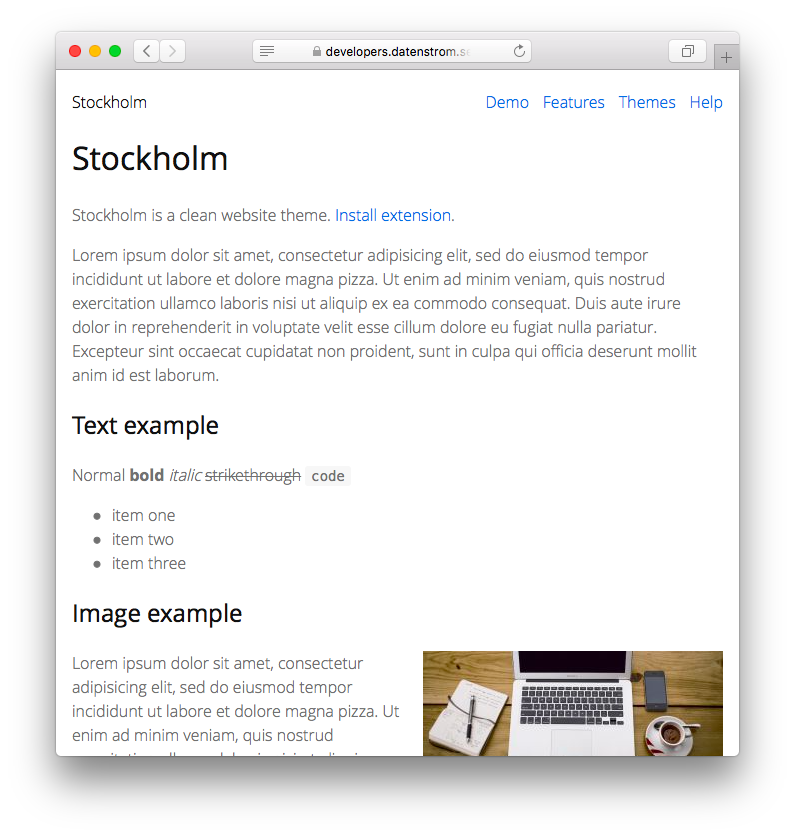
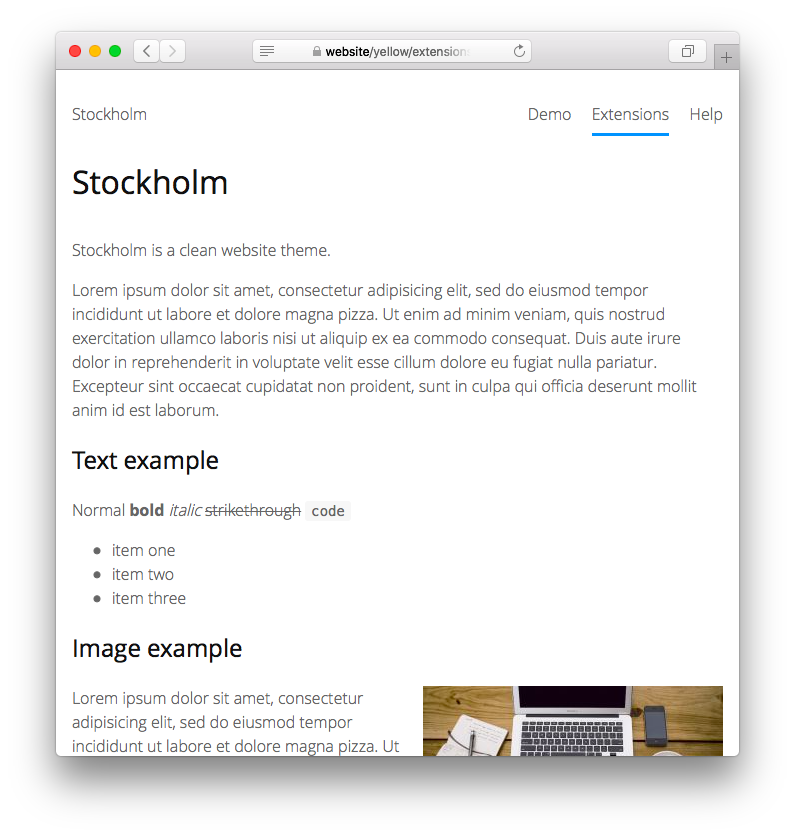
Updated themes

diff --git a/themes/stockholm/stockholm.css b/themes/stockholm/stockholm.css
@@ -29,7 +29,7 @@ html, body, div, form, pre, span, tr, th, td, img {
 body {
     margin: 1em;
     background-color: #fff;
-    color: #717171;
+    color: #666;
     font-family: "Open Sans", Helvetica, sans-serif;
     font-size: 1em;
     font-weight: 300;
@@ -42,7 +42,7 @@ h4,
 h5,
 h6 {
     color: #111;
-    font-weight: normal;
+    font-weight: 400;
 }
 h1 {
     font-size: 2em;
@@ -69,9 +69,8 @@ a:hover {
 
 /* Content */
 
-.content h1:first-child,
-.content > *:first-child {
-    margin-top: 0;
+.content h1 {
+    margin: 1em 0;
 }
 .content h1 a {
     color: #111;
@@ -165,23 +164,6 @@ a:hover {
     width: 100%;
     height: 100%;
 }
-.content .stretchable ul {
-    margin: 0 -0.5em;
-    padding: 0;
-    list-style: none;
-    text-align: center;
-}
-.content .stretchable li {
-    margin: 0;
-    padding: 1em 0;
-    display: inline-block;
-    text-align: center;
-    vertical-align: top;
-}
-.content .stretchable a {
-    color: #717171;
-    text-decoration: none;
-}
 .content .task-list-item {
     list-style-type: none;
 }
@@ -193,6 +175,13 @@ a:hover {
     margin: 0;
     padding: 0;
     list-style: none;
+}
+.content .wikipages ul,
+.content .wikitags ul,
+.content .wikilinks ul {
+    padding: 0;
+    list-style: none;
+    column-width: 19em;
 }
 .content .entry-links .previous {
     margin-right: 1em;
@@ -221,11 +210,12 @@ a:hover {
 
 /* Header */
 
+.header {
+    margin: 2em 0;
+}
 .header .sitename {
     display: block;
     float: left;
-    margin-top: 0.25em;
-    margin-bottom: 1em;
 }
 .header .sitename h1 {
     margin:0;
@@ -233,16 +223,18 @@ a:hover {
     font-weight: 300;
 }
 .header .sitename h1 a {
-    color: #111;
+    color: #666;
+    border-bottom: solid 3px #fff;
     text-decoration: none;
+    padding: 0.5em 0;
 }
 .header .sitename h1 a:hover {
     color: #07d;
-    text-decoration: underline;
+    border-bottom: solid 3px #29f;
 }
 .header .sitename p {
     margin-top: 0;
-    color: #111;
+    color: #666;
 }
 
 /* Navigation */
@@ -250,19 +242,28 @@ a:hover {
 .navigation {
     display: block;
     float: right;
-    margin-bottom: 1em;
-    line-height: 2;
 }
 .navigation a {
-    padding: 0 0.3em;
+    color: #666;
+    border-bottom: solid 3px #fff;
+    text-decoration: none;
+    padding: 0.5em 0;
+    margin: 0 0.5em;
+}
+.navigation a:hover {
+    color: #07d;
+    border-bottom: solid 3px #29f;
 }
 .navigation ul {
-    margin: 0 -0.3em;
+    margin: 0 -0.5em;
     padding: 0;
     list-style: none;
 }
 .navigation li {
     display: inline;
+}
+.navigation li a.active {
+    border-bottom: solid 3px #29f;
 }
 .navigation-banner {
     clear: both;
@@ -271,7 +272,7 @@ a:hover {
 /* Footer */
 
 .footer {
-    margin-top: 1em;
+    margin: 2em 0;
 }
 .footer .siteinfo a {
     color: #07d;
@@ -279,15 +280,6 @@ a:hover {
 .footer .siteinfo a:hover {
     color: #07d;
     text-decoration: underline;
-}
-.footer .siteinfo-left {
-    float: left;
-}
-.footer .siteinfo-right {
-    float: right;
-}
-.footer .siteinfo-banner {
-    clear: both;
 }
 
 /* Forms and buttons */
@@ -298,7 +290,7 @@ a:hover {
     display: inline-block;
     min-width: 7em;
     background-color: #fff;
-    color: #555;
+    color: #666;
     background-image: linear-gradient(to bottom, #fff, #fff);
     border: 1px solid #bbb;
     border-radius: 4px;
@@ -362,20 +354,7 @@ a:hover {
     }
     .content h1,
     .content h2 {
-        font-size: 1.3em;
-    }
-    .footer,
-    .page {
-        margin: 0;
-        padding: 0;
-    }
-    .header .sitename,
-    .navigation {
-        float: none;
-    }
-    .header .sitename,
-    .navigation {
-        margin-bottom: 0.5em;
+        font-size: 1.5em;
     }
 }
 @media print {

diff --git a/themes/paris/paris.css b/themes/paris/paris.css
@@ -173,23 +173,6 @@ a:hover {
     width: 100%;
     height: 100%;
 }
-.content .stretchable ul {
-    margin: 0 -0.5em;
-    padding: 0;
-    list-style: none;
-    text-align: center;
-}
-.content .stretchable li {
-    margin: 0;
-    padding: 1em 0;
-    display: inline-block;
-    text-align: center;
-    vertical-align: top;
-}
-.content .stretchable a {
-    color: #333;
-    text-decoration: none;
-}
 .content .task-list-item {
     list-style-type: none;
 }
@@ -229,10 +212,6 @@ a:hover {
 
 /* Header */
 
-.header .sitename {
-    display: block;
-    float: left;
-}
 .header .sitename h1 {
     font-size: 1.2em;
     font-weight: 400;
@@ -240,7 +219,6 @@ a:hover {
 .header .sitename h1 a {
     color: #333;
     text-decoration: none;
-    text-transform: uppercase;
 }
 .header .sitename p {
     color: #333;
@@ -257,10 +235,6 @@ a:hover {
 
 /* Navigation */
 
-.navigation {
-    display: block;
-    float: right;
-}
 .navigation {
     margin-top: 1em;
     margin-bottom: 1em;
@@ -335,10 +309,6 @@ a:hover {
 .footer .siteinfo a:hover {
     color: #cf3621;
     text-decoration: underline;
-}
-.footer .siteinfo-left,
-.footer .siteinfo-right {
-    float: none;
 }
 
 /* Forms and buttons */
@@ -437,10 +407,6 @@ a:hover {
     }
     .header .sitename h2 {
         margin-top: -0.5em;
-    }
-    .header .sitename,
-    .navigation {
-        float: none;
     }
     .header .sitename-logo {
         width: 30px;

diff --git a/themes/berlin/berlin.css b/themes/berlin/berlin.css
@@ -167,23 +167,6 @@ a:hover {
     width: 100%;
     height: 100%;
 }
-.content .stretchable ul {
-    margin: 0 -0.5em;
-    padding: 0;
-    list-style: none;
-    text-align: center;
-}
-.content .stretchable li {
-    margin: 0;
-    padding: 1em 0;
-    display: inline-block;
-    text-align: center;
-    vertical-align: top;
-}
-.content .stretchable a {
-    color: #717171;
-    text-decoration: none;
-}
 .content .task-list-item {
     list-style-type: none;
 }
@@ -242,8 +225,8 @@ a:hover {
 }
 .navigation a:hover {
     color: #bbb;
-    text-decoration: none;
     transition: color 0.2s;
+    text-decoration: none;
 }
 .navigation ul {
     margin: 0;
@@ -275,15 +258,6 @@ a:hover {
 .footer .siteinfo a:hover {
     color: #555;
     text-decoration: underline;
-}
-.footer .siteinfo-left {
-    float: left;
-}
-.footer .siteinfo-right {
-    float: right;
-}
-.footer .siteinfo-banner {
-    clear: both;
 }
 
 /* Sidebar */

diff --git a/themes/stockholm/stockholm.php b/themes/stockholm/stockholm.php
@@ -1,10 +1,10 @@
 <?php
 // Stockholm extension, https://github.com/datenstrom/yellow-extensions/tree/master/themes/stockholm
-// Copyright (c) 2013-2019 Datenstrom, https://datenstrom.se
+// Copyright (c) 2013-2020 Datenstrom, https://datenstrom.se
 // This file may be used and distributed under the terms of the public license.
 
 class YellowStockholm {
-    const VERSION = "0.8.6";
+    const VERSION = "0.8.7";
     const TYPE = "theme";
     public $yellow;         //access to API
     

diff --git a/themes/stockholm/README-de.md b/themes/stockholm/README-de.md
@@ -1,4 +1,4 @@
-Stockholm 0.8.6
+Stockholm 0.8.7
 ===============
 Stockholm ist ein schlichtes Webseiten-Thema.
 

diff --git a/themes/stockholm/README.md b/themes/stockholm/README.md
@@ -1,4 +1,4 @@
-Stockholm 0.8.6
+Stockholm 0.8.7
 ===============
 Stockholm is a clean website theme.
 
